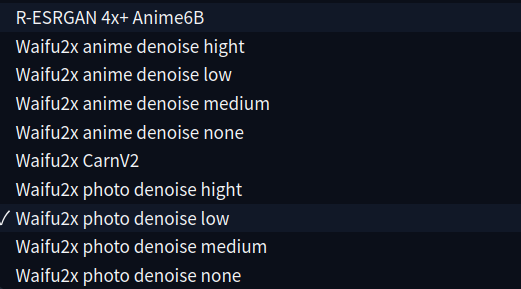
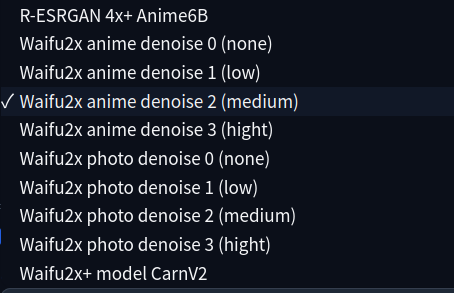
update readme

diff --git a/Readme.md b/Readme.md
@@ -5,6 +5,8 @@ Waifu2x is an open-source NN upscaler from 2015. You can install it ether for no
 ![](/images/preview.png)
 ![](/images/upscalers.png)
 
+`Waifu2x+ model CarnV2` is a tuned and modified with extra features model. Has 5 times more parameters 2,149,607 vs 552,480
+
 <details>
 <summary>Alternative UI</summary>
 
